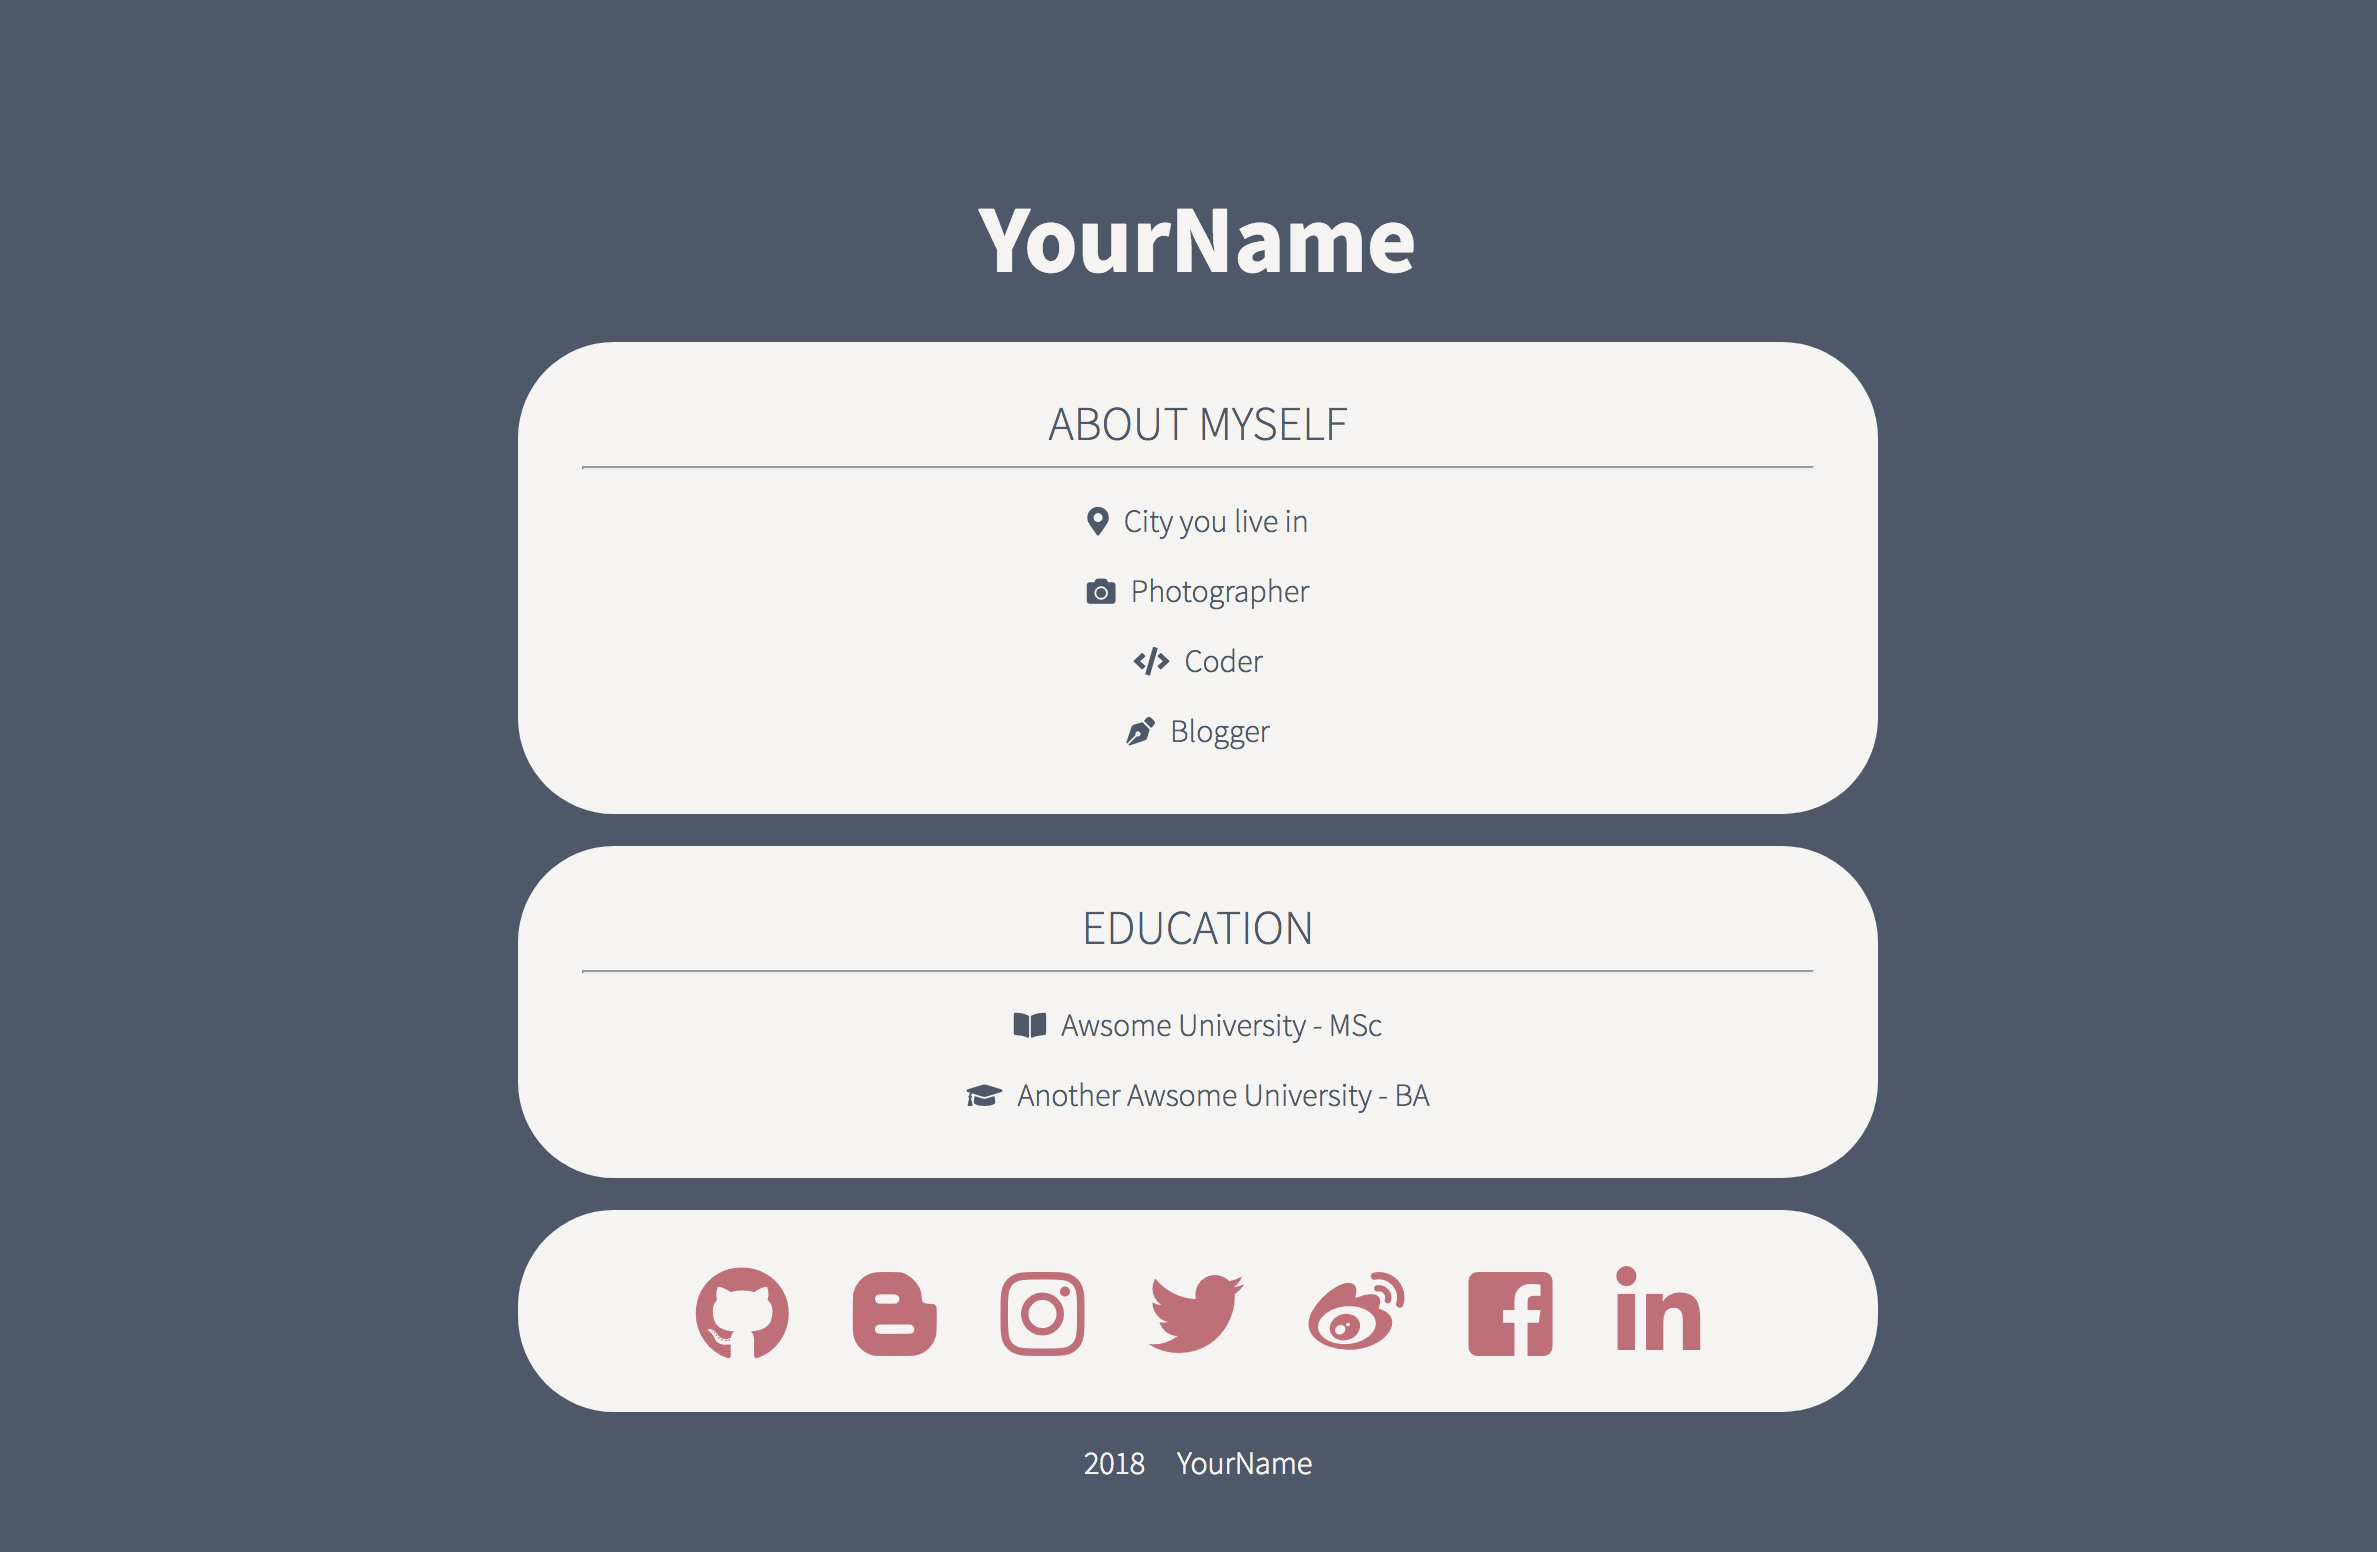
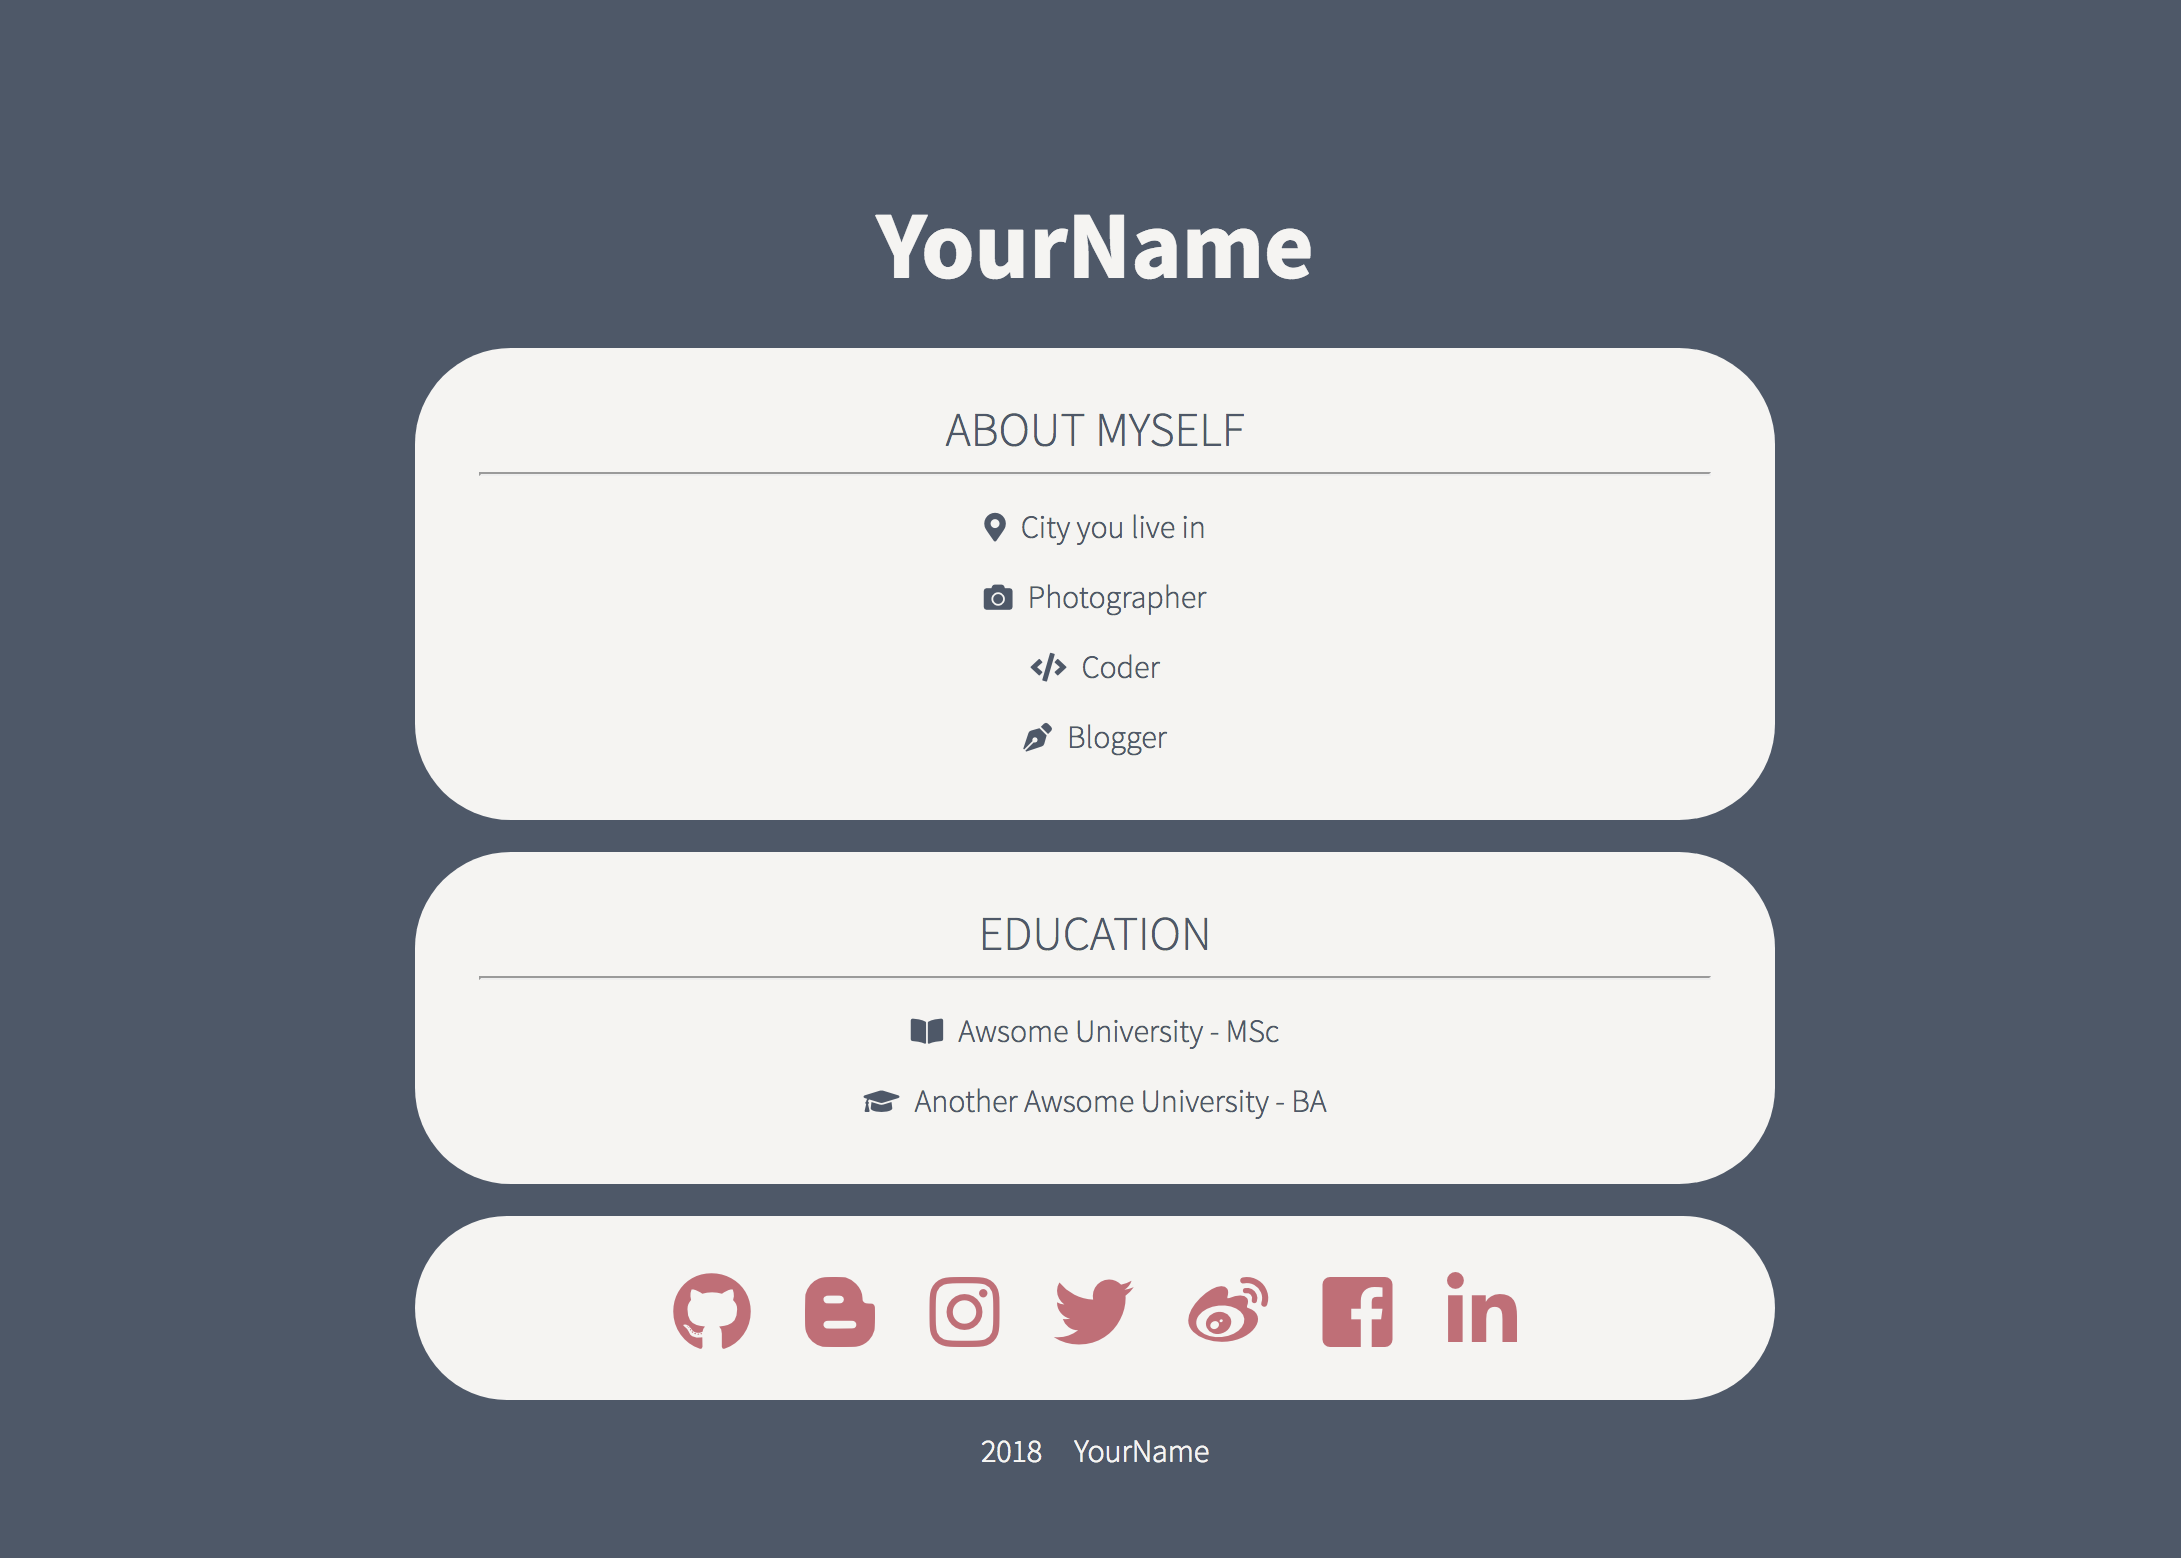
layout adjustment

diff --git a/style.css b/style.css
@@ -68,7 +68,7 @@ body {
 
 .contentBlock a>i {
 	margin: 0/*up*/ 0.3em/*right*/ 0.2em/*down*/ 0.3em /*left*/;
-	font-size: 3em;
+	font-size: 2.5em;
 }
 
 /* sub block (img) */
